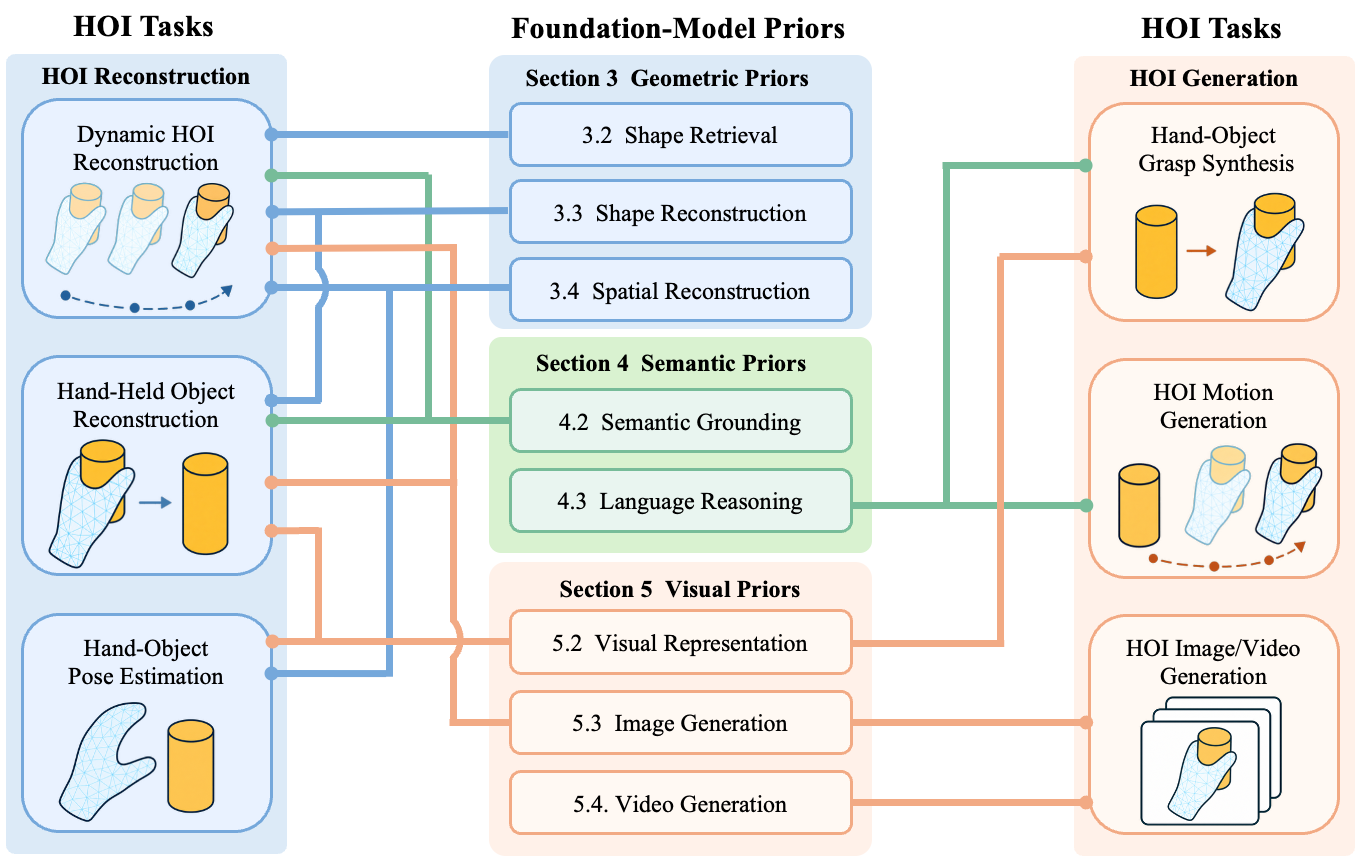
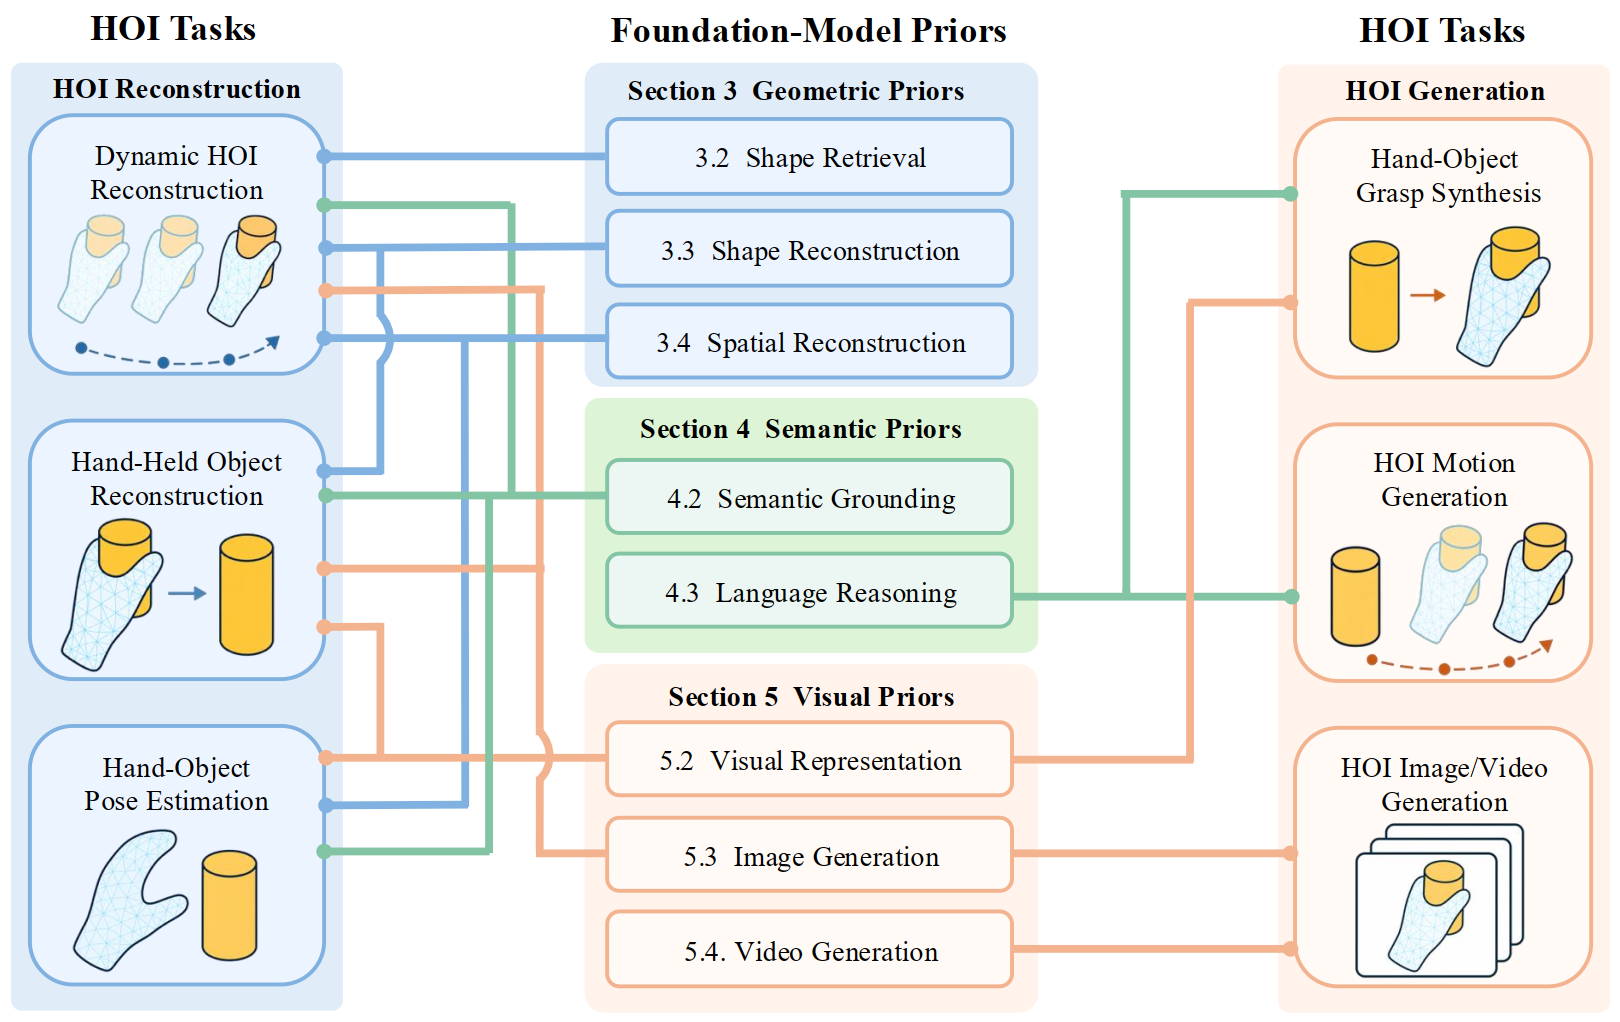
[update] update web

diff --git a/index.html b/index.html
@@ -54,7 +54,7 @@
       <div class="stat"><div class="stat-num">6</div><div class="stat-label">HOI Tasks</div></div>
       <div class="stat"><div class="stat-num">3</div><div class="stat-label">Prior Families</div></div>
       <div class="stat"><div class="stat-num">8</div><div class="stat-label">Foundation-Model Sub-Priors</div></div>
-      <div class="stat"><div class="stat-num">16</div><div class="stat-label">Prior–Task Combinations</div></div>
+      <div class="stat"><div class="stat-num">17</div><div class="stat-label">Prior–Task Combinations</div></div>
       <div class="stat"><div class="stat-num">3</div><div class="stat-label">Embodied Transfer Directions</div></div>
       <div class="stat"><div class="stat-num">200+</div><div class="stat-label">Methods Surveyed</div></div>
       <div class="stat"><div class="stat-num">20</div><div class="stat-label">Human-Video Datasets</div></div>
